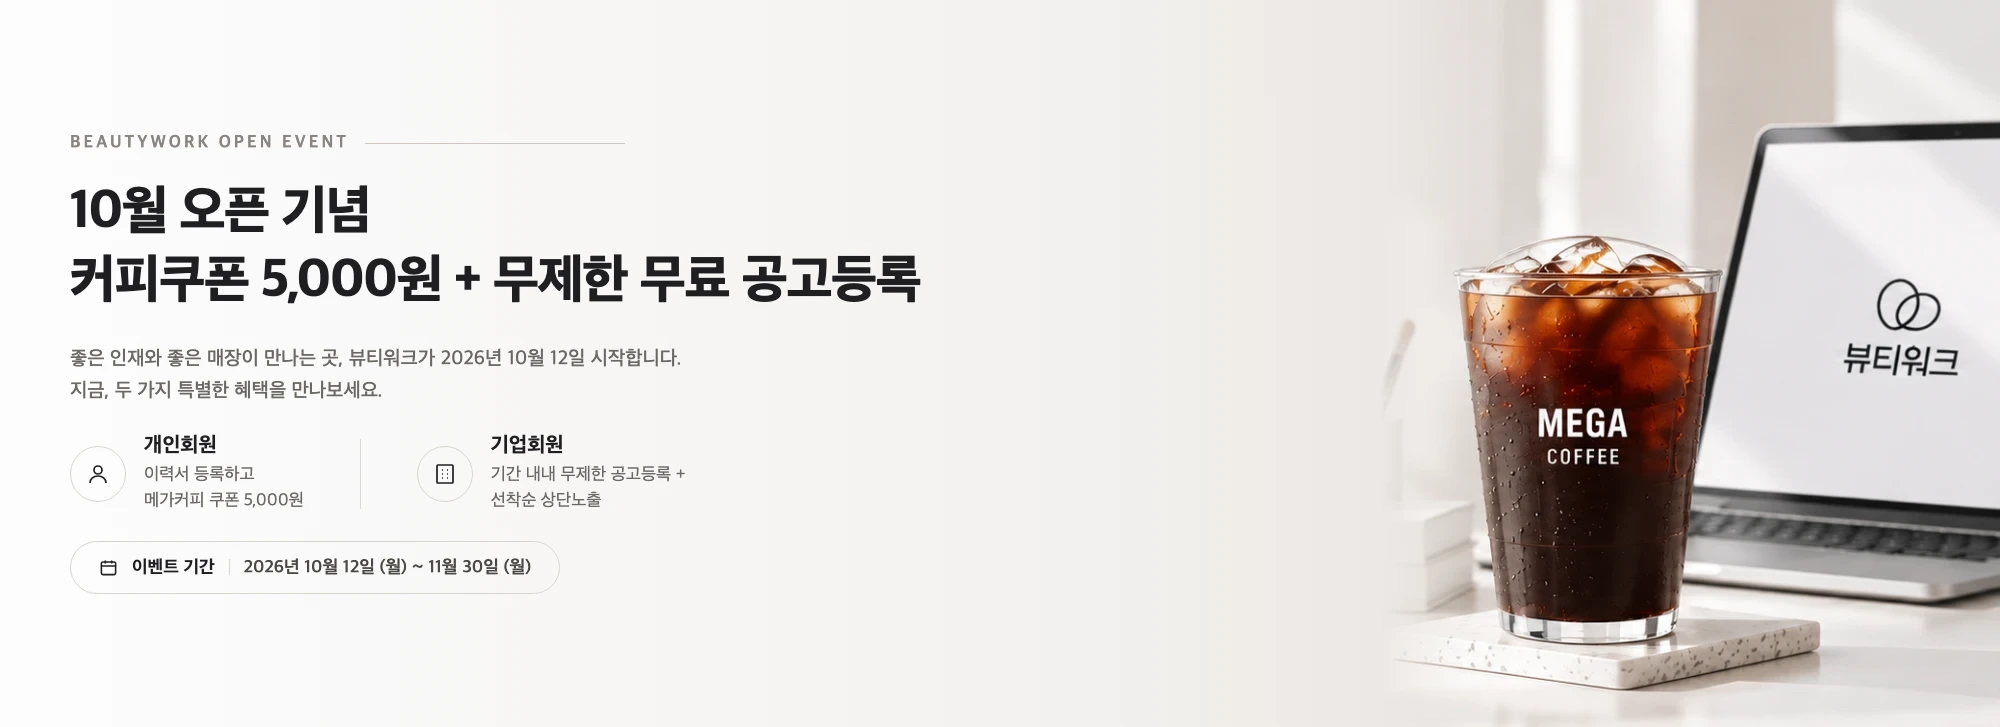
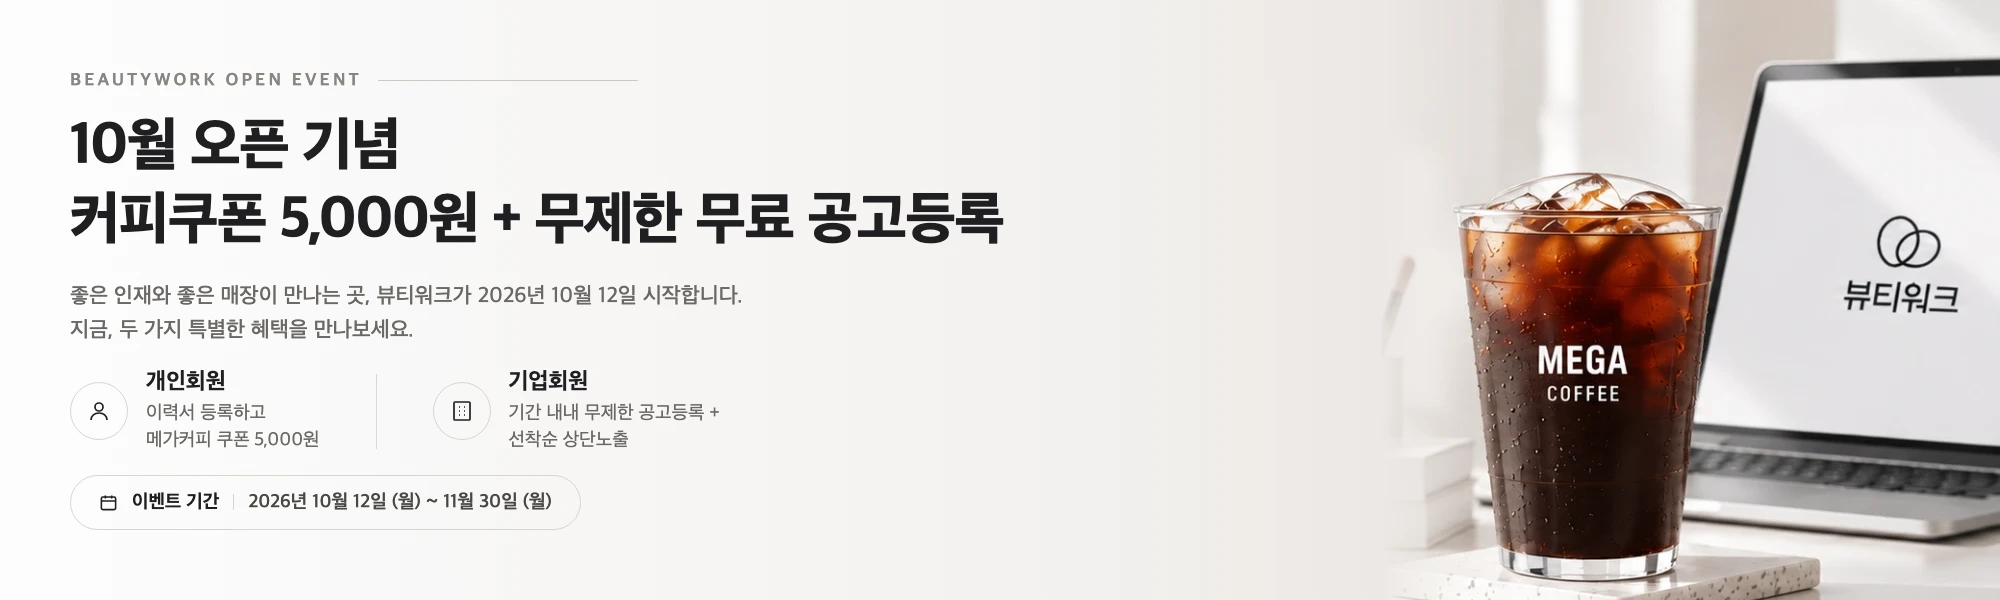
배너 높이를 줄이고 글자를 키우며, 시작하기 카드를 배너와 톤을 맞춘다
- 배너를 2000x727 → 2000x600 으로 다시 구워 위아래 여백을 줄이고, 그 김에
  글자 크기도 전체적으로 키운다(제목 53→58px, 설명 20→22px 등).
- 시작하기 카드의 강조 제목(처음 오셨나요? / 좋은 일자리·인재를 찾고
  계신가요?)을 검색 카드 강조 글자(뷰티업계 일자리를 한곳에서)와 같은
  색·크기(보라 20px)로 맞춘다.
- 등록 버튼 라벨을 가운데 정렬로 바꾸고 전체적으로 글자를 키운다.
- 카드 배경을 배너 왼쪽 판과 같은 따뜻한 아이보리~베이지 톤으로 맞춰,
  배너 바로 아래에서 색이 갈리지 않게 한다.

diff --git a/app/globals.css b/app/globals.css
@@ -13128,7 +13128,7 @@ button,
 /* 배너 그림 자체가 이벤트 안내다 — 실제 그림 비율(2000:727)로 상자를 잡고
    그 안을 그림으로 꽉 채운다. 글자를 얹지 않으니 높이를 190px 로 고정할
    까닭이 없다. */
-.mt-hero.img { height: auto; aspect-ratio: 2000 / 727; }
+.mt-hero.img { height: auto; aspect-ratio: 2000 / 600; }
 .mt-hero-banner-img { display: block; width: 100%; height: 100%; object-fit: cover; }
 .mt-hero-photo {
   position: absolute; inset: 0;
@@ -13262,32 +13262,36 @@ button,
    하면 되나」에 셋 다 다른 각도로 답한다. */
 .mt-card.mt-evt { display: grid; grid-template-columns: 1.05fr 1fr 1fr;
   padding: 0; overflow: hidden; }
+/* 배경은 위 메인 배너 왼쪽 판과 같은 계열(따뜻한 아이보리~베이지)로 맞춘다 —
+   배너 바로 아래 카드라 색이 갈리면 한 화면이 두 톤으로 나뉘어 보였다. */
 .mt-guide-intro { position: relative; overflow: hidden; display: flex; flex-direction: column;
-  padding: 24px 24px 20px; background: linear-gradient(160deg, #fbf9fc 0%, #f5eef9 100%); }
-/* 옅게 번진 동그라미 둘 — 오른쪽 아래에서 겹치며 은은하게. */
+  padding: 24px 24px 20px; background: linear-gradient(160deg, #fdfdfd 0%, #f3f1ef 55%, #ece8e4 100%); }
+/* 옅게 번진 동그라미 둘 — 오른쪽 아래에서 겹치며 은은하게, 같은 베이지 계열로. */
 .mt-guide-intro::before, .mt-guide-intro::after { content: ""; position: absolute; border-radius: 50%; }
-.mt-guide-intro::before { width: 150px; height: 150px; background: #f3d9ea; opacity: .55; right: -50px; bottom: -60px; }
-.mt-guide-intro::after { width: 110px; height: 110px; background: #b79bd6; opacity: .35; right: 10px; bottom: -40px; }
-.mt-guide-kicker { position: relative; z-index: 1; font-size: 11px; font-weight: 700; letter-spacing: 1.6px; color: #a39cae; }
-.mt-guide-h { position: relative; z-index: 1; margin: 10px 0 8px; font-size: 19px; font-weight: 700;
-  color: #1f1f22; letter-spacing: -.3px; }
-.mt-guide-p { position: relative; z-index: 1; margin: 0; font-size: 13.5px; line-height: 1.6;
+.mt-guide-intro::before { width: 150px; height: 150px; background: #e4dcd3; opacity: .6; right: -50px; bottom: -60px; }
+.mt-guide-intro::after { width: 110px; height: 110px; background: #cbb9d9; opacity: .3; right: 10px; bottom: -40px; }
+.mt-guide-kicker { position: relative; z-index: 1; font-size: 12px; font-weight: 700; letter-spacing: 1.6px; color: #a39cae; }
+/* 왼쪽 안내 제목·가운데/오른쪽 물음도 검색 카드의 굵은 강조(.mt-jobs-h b)와
+   같은 색·크기로 맞춘다 — 한 화면에서 강조 글자가 저마다 다르면 안 된다. */
+.mt-guide-h { position: relative; z-index: 1; margin: 10px 0 8px; font-size: 20px; font-weight: 700;
+  color: var(--color-primary); letter-spacing: -.3px; }
+.mt-guide-p { position: relative; z-index: 1; margin: 0; font-size: 14.5px; line-height: 1.6;
   color: #6b6874; word-break: keep-all; flex: 1; }
 .mt-guide-faq { position: relative; z-index: 1; display: inline-flex; align-items: center; gap: 5px;
   margin-top: 14px; width: fit-content; padding: 9px 16px; border-radius: 100px;
-  border: 1.5px solid #d9cfe6; background: #fff; font-size: 13px; font-weight: 700;
+  border: 1.5px solid #d9cfe6; background: #fff; font-size: 14px; font-weight: 700;
   color: #1f1f22; text-decoration: none; }
 .mt-guide-faq:hover { border-color: var(--color-primary); color: var(--color-primary); }
 
 .mt-guide-col { display: flex; flex-direction: column; padding: 24px 20px 20px;
   border-left: 1px solid var(--color-border); }
-.mt-guide-tag { font-size: 12px; font-weight: 700; color: var(--color-primary); }
-.mt-guide-q { display: block; margin: 8px 0 6px; font-size: 17px; font-weight: 700;
-  color: #1f1f22; line-height: 1.4; word-break: keep-all; }
-.mt-guide-p2 { margin: 0; font-size: 13.5px; color: #8a8a90; line-height: 1.6; word-break: keep-all; flex: 1; }
-.mt-guide-btn { display: flex; align-items: center; justify-content: space-between;
+.mt-guide-tag { font-size: 13px; font-weight: 700; color: var(--color-primary); }
+.mt-guide-q { display: block; margin: 8px 0 6px; font-size: 20px; font-weight: 700;
+  color: var(--color-primary); line-height: 1.4; word-break: keep-all; }
+.mt-guide-p2 { margin: 0; font-size: 14.5px; color: #8a8a90; line-height: 1.6; word-break: keep-all; flex: 1; }
+.mt-guide-btn { display: flex; align-items: center; justify-content: center; gap: 8px;
   margin-top: 16px; height: 50px; padding: 0 20px; border: 0; border-radius: 10px;
-  background: var(--color-primary); color: #fff; font-size: 15px; font-weight: 700;
+  background: var(--color-primary); color: #fff; font-size: 16px; font-weight: 700;
   letter-spacing: -.2px; text-decoration: none; cursor: pointer; font-family: inherit; }
 .mt-guide-btn:hover { background: var(--color-primary-hover); }
 

diff --git a/scripts/오픈이벤트배너/banner.html b/scripts/오픈이벤트배너/banner.html
@@ -1,4 +1,4 @@
-<!-- 오픈 이벤트 메인 배너(2000x727) 원본.
+<!-- 오픈 이벤트 메인 배너(2000x600) 원본.
      사진(photo.png)은 처음 받은 오픈이벤트-메인배너.webp 의 오른쪽만 오려낸 것 —
      글자는 실제 <div> 라 크기·간격을 여기서 고치고 다시 구우면 된다.
 
@@ -6,8 +6,9 @@
        CHROME="/Applications/Google Chrome.app/Contents/MacOS/Google Chrome"
        "$CHROME" --headless --disable-gpu --hide-scrollbars \
          --force-device-scale-factor=1 --screenshot=out.png \
-         --window-size=2000,727 "file://$(pwd)/banner.html"
-     그 다음 PNG를 public/images/event/오픈이벤트-메인배너.webp 로 webp 변환해 덮어쓴다. -->
+         --window-size=2000,600 "file://$(pwd)/banner.html"
+     그 다음 PNG를 public/images/event/오픈이벤트-메인배너.webp 로 webp 변환해 덮어쓴다.
+     app/globals.css 의 .mt-hero.img { aspect-ratio: 2000/600; } 도 높이를 바꾸면 같이 고친다. -->
 <!DOCTYPE html>
 <html>
 <head>
@@ -18,46 +19,46 @@
     src: local('Apple SD Gothic Neo');
   }
   * { box-sizing: border-box; margin: 0; padding: 0; }
-  html, body { width: 2000px; height: 727px; overflow: hidden; }
+  html, body { width: 2000px; height: 600px; overflow: hidden; }
   body { font-family: 'Apple SD Gothic Neo', 'Pretendard', sans-serif; }
-  .wrap { display: flex; width: 2000px; height: 727px; }
+  .wrap { display: flex; width: 2000px; height: 600px; }
   .left {
     flex: 0 0 1380px;
-    height: 727px;
-    padding: 56px 70px;
+    height: 600px;
+    padding: 36px 70px;
     display: flex;
     flex-direction: column;
     justify-content: center;
-    gap: 26px;
+    gap: 20px;
     background: linear-gradient(90deg, #fdfdfd 0%, #f3f1ef 78%, #ece8e4 100%);
   }
-  .right { flex: 0 0 620px; height: 727px; overflow: hidden; position: relative; }
+  .right { flex: 0 0 620px; height: 600px; overflow: hidden; position: relative; }
   .right img { width: 100%; height: 100%; object-fit: cover; display: block; }
   .right::before { content: ""; position: absolute; inset: 0; width: 90px;
     background: linear-gradient(90deg, #ece8e4 0%, rgba(236,232,228,0) 100%); }
 
   .eyebrow { display: flex; align-items: center; gap: 16px; }
-  .eyebrow span { font-size: 17px; font-weight: 700; letter-spacing: 3px; color: #8a8580; }
+  .eyebrow span { font-size: 18px; font-weight: 700; letter-spacing: 3px; color: #8a8580; }
   .eyebrow i { display: block; width: 260px; height: 1px; background: #cfc9c3; }
 
-  .headline { font-size: 53px; font-weight: 800; line-height: 1.3; letter-spacing: -1.2px; color: #1f1f22; }
+  .headline { font-size: 58px; font-weight: 800; line-height: 1.28; letter-spacing: -1.2px; color: #1f1f22; }
 
-  .desc { font-size: 20px; font-weight: 500; line-height: 1.6; color: #6b6864; }
+  .desc { font-size: 22px; font-weight: 500; line-height: 1.55; color: #6b6864; }
 
   .benefits { display: flex; align-items: flex-start; gap: 56px; }
   .benefit { display: flex; align-items: center; gap: 18px; }
-  .benefit .ic { flex: none; width: 56px; height: 56px; border-radius: 50%; border: 1.5px solid #d9d4cf;
+  .benefit .ic { flex: none; width: 58px; height: 58px; border-radius: 50%; border: 1.5px solid #d9d4cf;
     display: flex; align-items: center; justify-content: center; }
-  .benefit b { display: block; font-size: 21px; font-weight: 700; color: #1f1f22; margin-bottom: 4px; }
-  .benefit p { margin: 0; font-size: 17.5px; line-height: 1.5; color: #6b6864; }
+  .benefit b { display: block; font-size: 23px; font-weight: 700; color: #1f1f22; margin-bottom: 4px; }
+  .benefit p { margin: 0; font-size: 19px; line-height: 1.45; color: #6b6864; }
   .sep { width: 1px; align-self: stretch; background: #ddd8d3; margin: 6px 0; }
 
   .period { display: inline-flex; align-items: center; gap: 14px; padding: 15px 28px; border-radius: 100px;
     border: 1.5px solid #d9d4cf; width: fit-content; }
   .period .ic { flex: none; display: flex; align-items: center; justify-content: center; color: #1f1f22; }
-  .period b { font-size: 18px; font-weight: 700; color: #1f1f22; }
+  .period b { font-size: 19px; font-weight: 700; color: #1f1f22; }
   .period span.bar { width: 1px; height: 16px; background: #d9d4cf; }
-  .period span.d { font-size: 18px; font-weight: 600; color: #4a4844; }
+  .period span.d { font-size: 19px; font-weight: 600; color: #4a4844; }
 </style>
 </head>
 <body>
